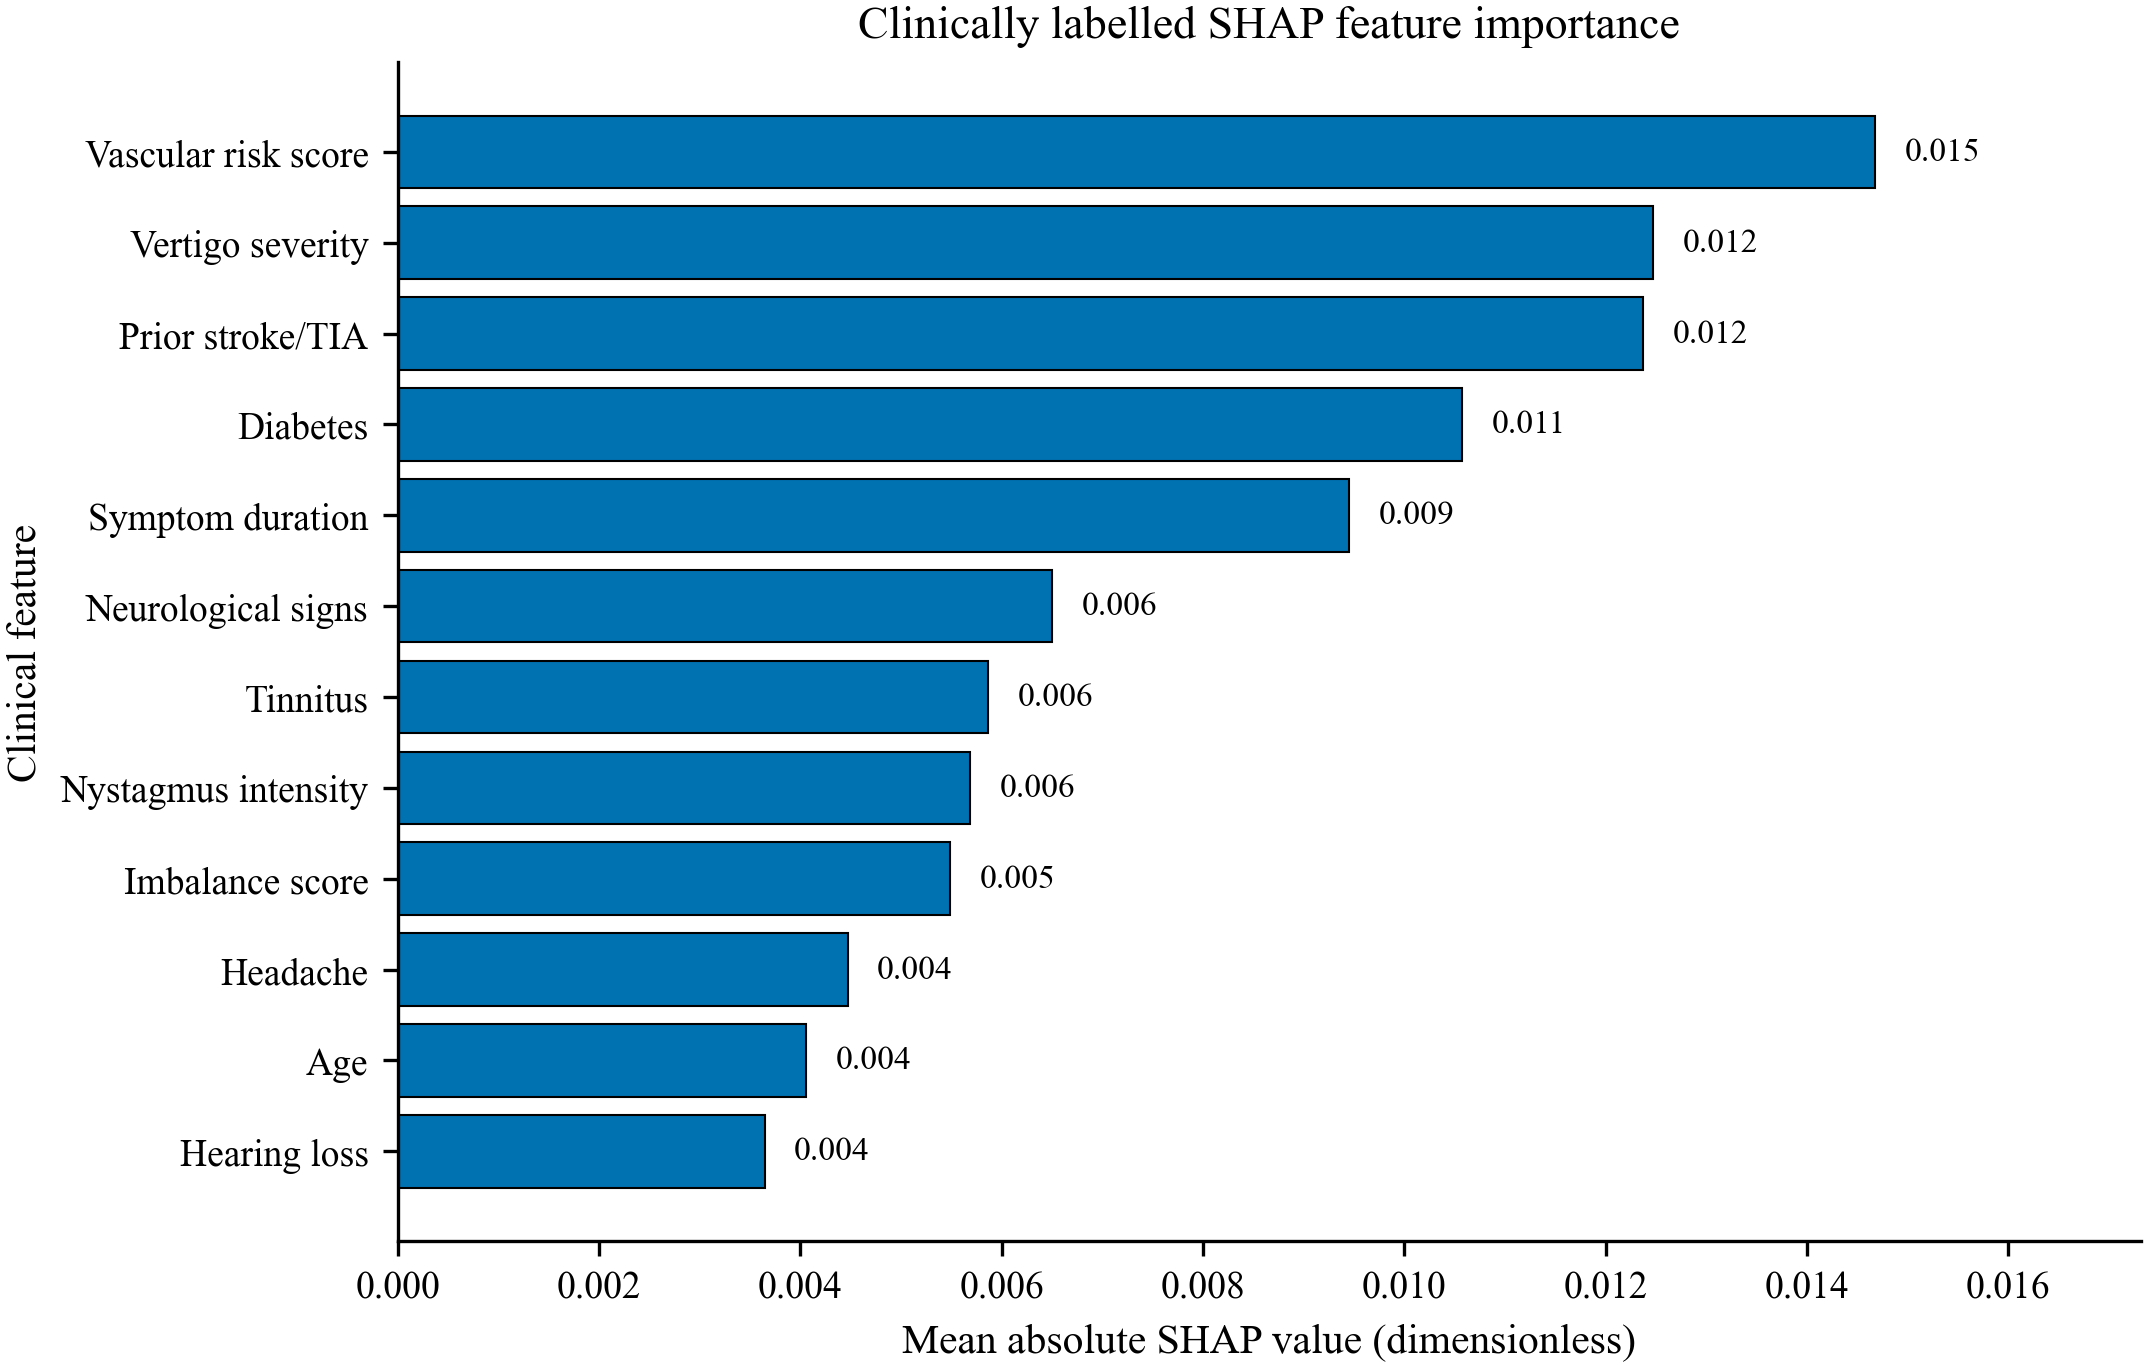
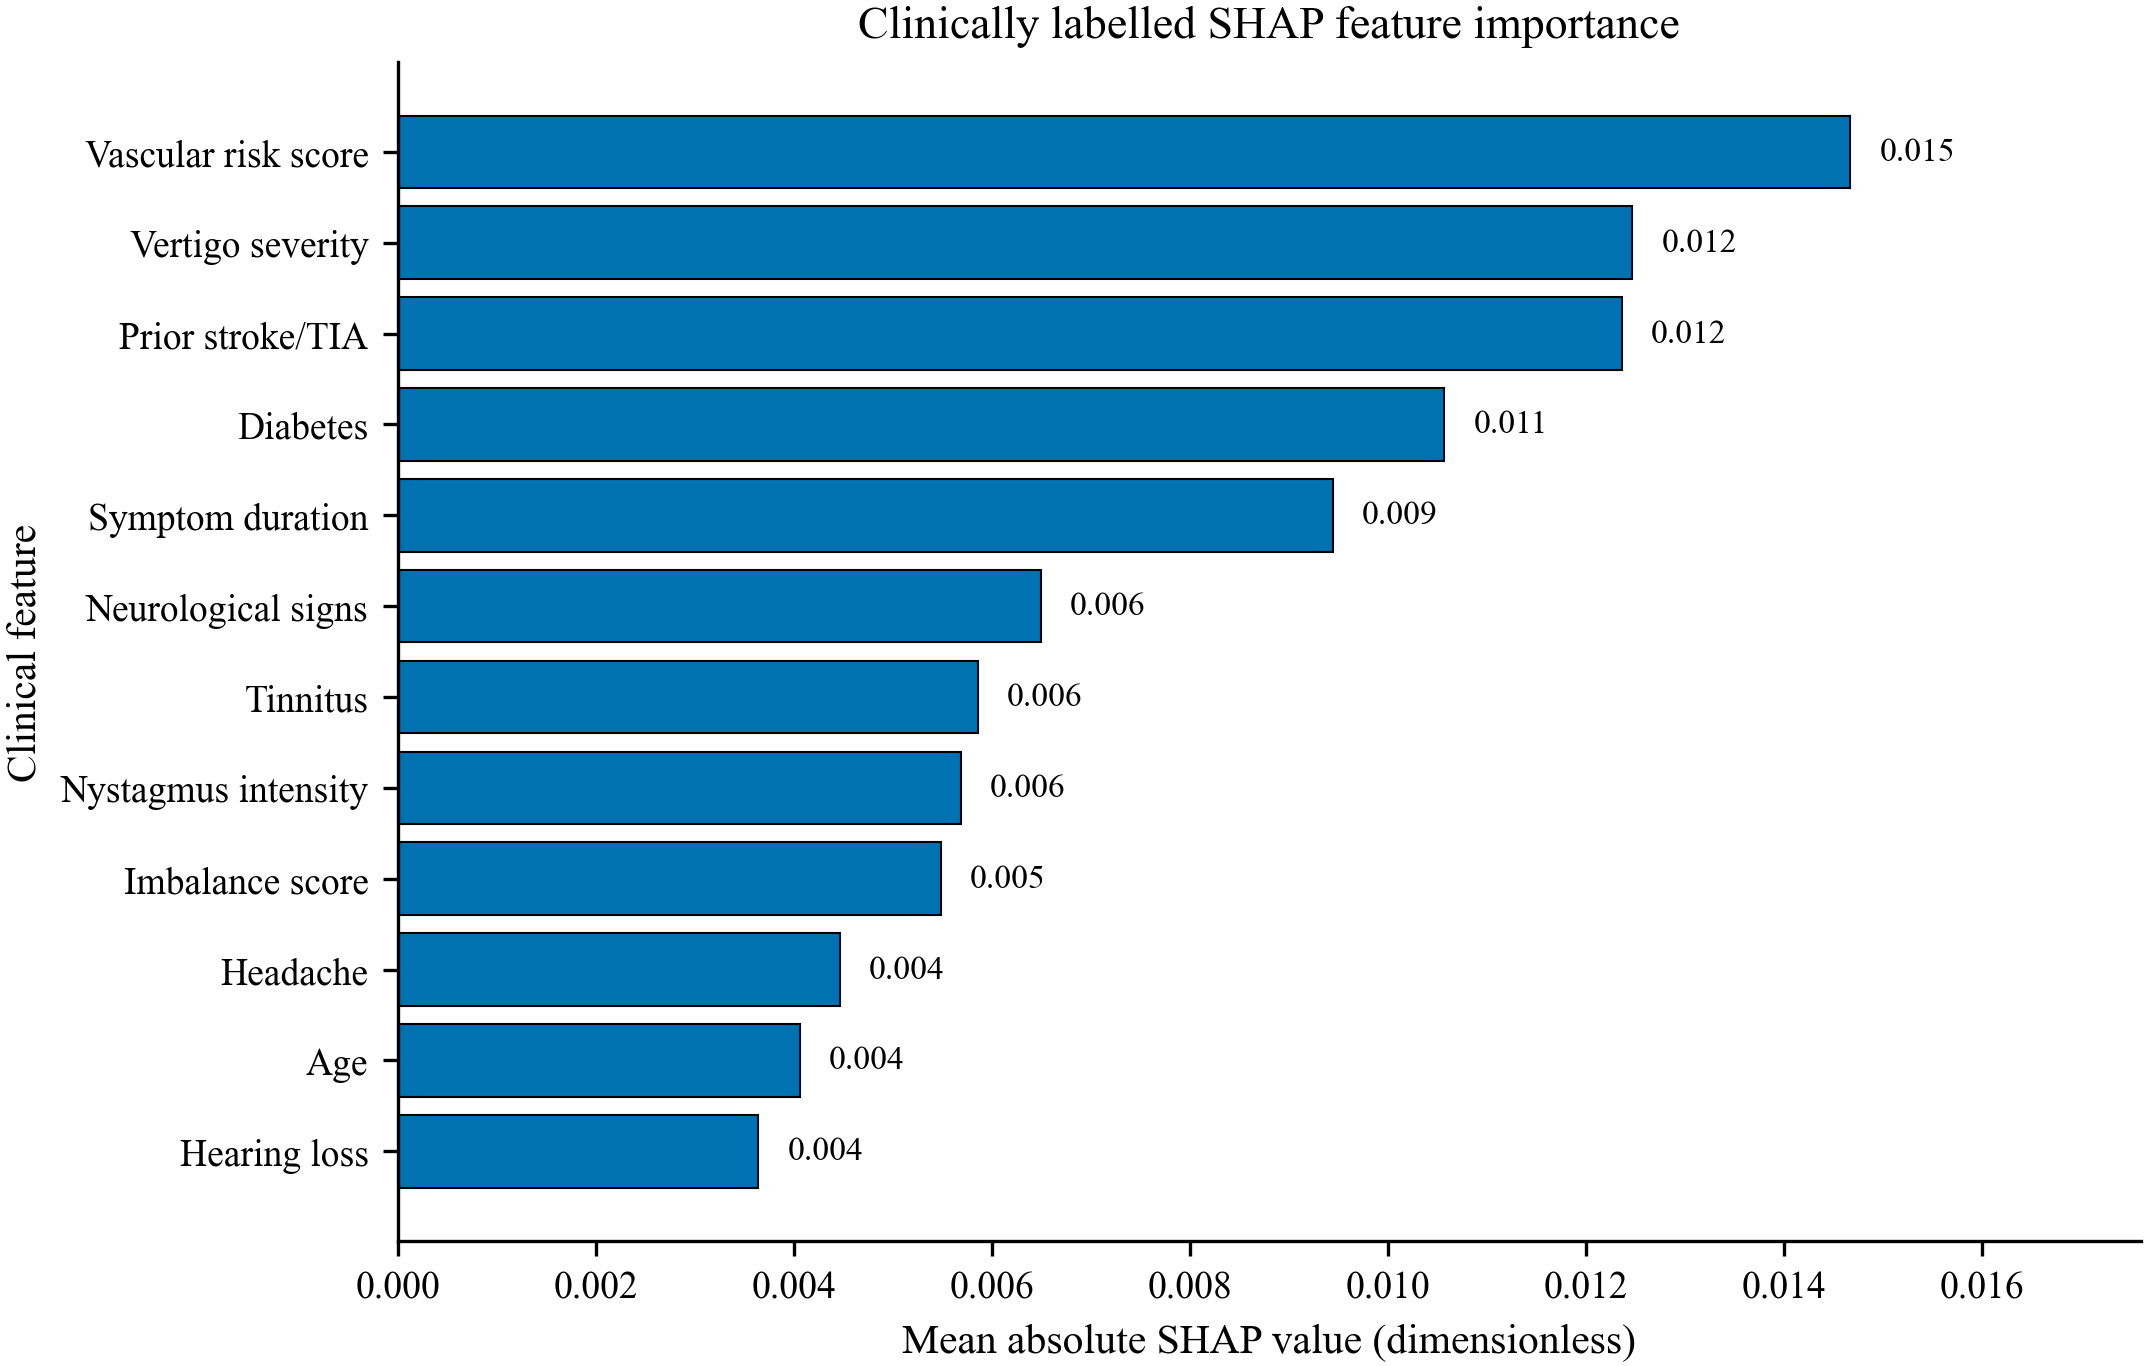
Consolidate shared visualization utility and upgrade charts to publication standard
- Vendor a single shared pubviz.py (palette, style, save, results IO, schematic
  primitives) byte-identical across repos; remove duplicated inline style blocks
- Replace weak chart types (radar, pie/donut, 3D-for-2D, dual-axis) with
  perceptually sound encodings (dot plots, small multiples, aligned panels)
- Add uncertainty (bootstrap / Wilson CIs) to effect and proportion estimates
- Add missing high-value figures (risk-coverage, calibration/reliability,
  decision-curve, behaviour-compliance) computed from results/ (seed 42)
- Annotate honest limitations on figures; regenerate all at 300 dpi (PDF + PNG)

diff --git a/scripts/generate_manuscript_figures.py b/scripts/generate_manuscript_figures.py
@@ -4,6 +4,14 @@ This script creates the small article-ready figure set used for top-tier
 readiness claims. It keeps broad demo outputs in ``outputs/`` and writes the
 curated, reproducible submission set to ``figures/manuscript/`` with a figure
 manifest.
+
+Visualization style and the save/load helpers are imported, byte-identical,
+from the vendored ``pubviz.py`` (mirrors _management/FIGURE_STYLE.md). Data is
+always loaded from ``outputs/`` / ``results/`` at run time -- never hardcoded.
+
+Encoding choices follow Cleveland--McGill: position/length on a common scale
+(dot/bar small multiples, horizontal bars) is preferred over angle (radar) or
+area (pie/donut), which are weak perceptual channels.
 """
 
 from __future__ import annotations
@@ -15,9 +23,9 @@ from datetime import datetime
 from pathlib import Path
 from typing import Any
 
-import matplotlib as mpl
 import matplotlib.pyplot as plt
-import numpy as np
+
+from pubviz import PALETTE, apply_pub_style, load_results, results_dir, save_fig  # noqa: F401
 
 
 ROOT = Path(__file__).resolve().parents[1]
@@ -25,12 +33,8 @@ DEFAULT_OUTPUT_DIR = ROOT / "figures" / "manuscript"
 DEFAULT_MANIFEST = ROOT / "FIGURE_MANIFEST.csv"
 DPI = 300
 
-# Canonical Top-Tier figure style (shared across all PhD repos).
-# Color-blind-safe (Okabe-Ito) palette — use in this order.
-PALETTE = ["#0072B2", "#D55E00", "#009E73", "#CC79A7", "#E69F00", "#56B4E9", "#000000"]
-
-# Semantic aliases drawn from the shared palette (no color-only encoding;
-# markers/linestyles carry the distinction where multiple series appear).
+# Semantic aliases drawn from the shared Okabe-Ito palette (no color-only
+# encoding; markers/hatches carry the distinction where multiple series appear).
 COLORS = {
     "blue": PALETTE[0],
     "orange": PALETTE[1],
@@ -39,45 +43,7 @@ COLORS = {
     "amber": PALETTE[4],
     "skyblue": PALETTE[5],
     "black": PALETTE[6],
-    # backward-compatible semantic names retained, remapped to Okabe-Ito
-    "safe": PALETTE[2],
-    "teal": PALETTE[5],
-    "gray": PALETTE[6],
 }
-
-
-def apply_pub_style() -> None:
-    """Apply the canonical publication style (see _management/FIGURE_STYLE.md)."""
-    mpl.rcParams.update(
-        {
-            "figure.dpi": 150,
-            "savefig.dpi": DPI,
-            "savefig.bbox": "tight",
-            "savefig.pad_inches": 0.02,
-            "font.family": "serif",
-            "font.serif": ["Times New Roman", "Times", "DejaVu Serif"],
-            "mathtext.fontset": "stix",
-            "font.size": 10,
-            "axes.titlesize": 11,
-            "axes.labelsize": 10,
-            "xtick.labelsize": 9,
-            "ytick.labelsize": 9,
-            "legend.fontsize": 9,
-            "axes.spines.top": False,
-            "axes.spines.right": False,
-            "axes.linewidth": 0.8,
-            "axes.grid": True,
-            "grid.alpha": 0.3,
-            "grid.linewidth": 0.6,
-            "lines.linewidth": 1.6,
-            "lines.markersize": 5,
-            "legend.frameon": False,
-            "figure.constrained_layout.use": True,
-            "axes.prop_cycle": mpl.cycler(color=PALETTE),
-            "pdf.fonttype": 42,
-            "ps.fonttype": 42,
-        }
-    )
 
 CLINICAL_FEATURE_LABELS = {
     "vascular_risk_score": "Vascular risk score",
@@ -104,12 +70,10 @@ def load_json(path: Path) -> dict[str, Any]:
 
 
 def save_figure(fig: plt.Figure, output_dir: Path, stem: str) -> tuple[Path, Path]:
-    png_path = output_dir / f"{stem}.png"
-    pdf_path = output_dir / f"{stem}.pdf"
-    fig.savefig(png_path, dpi=DPI, bbox_inches="tight")
-    fig.savefig(pdf_path, bbox_inches="tight")
+    """Write matched vector PDF + 300-dpi PNG via the canonical helper."""
+    save_fig(fig, stem, out_dir=str(output_dir))
     plt.close(fig)
-    return png_path, pdf_path
+    return output_dir / f"{stem}.png", output_dir / f"{stem}.pdf"
 
 
 def format_feature_name(feature: str) -> str:
@@ -131,8 +95,9 @@ def figure1_shap_importance(output_dir: Path) -> dict[str, str]:
     ax.set_title("Clinically labelled SHAP feature importance")
     ax.grid(axis="x")
     ax.grid(axis="y", visible=False)
-    ax.set_xlim(0, max(values) * 1.18)
+    ax.set_xlim(0, max(values) * 1.20)
 
+    # Value labels on every bar (position on a common scale + explicit number).
     for y_pos, value in enumerate(values):
         ax.text(value + max(values) * 0.02, y_pos, f"{value:.3f}", va="center", fontsize=8)
 
@@ -144,7 +109,12 @@ def figure1_shap_importance(output_dir: Path) -> dict[str, str]:
         "pdf": str(pdf_path.relative_to(ROOT)),
         "source_script": "scripts/generate_manuscript_figures.py",
         "source_data": str(report_path.relative_to(ROOT)),
-        "caption": "Clinically labelled SHAP feature-importance panel for SynDX dizziness-case modeling.",
+        "caption": (
+            "Clinically labelled SHAP feature-importance panel for SynDX "
+            "dizziness-case modeling; bars annotated with mean absolute SHAP "
+            "values. Per-sample SHAP arrays are not exported, so no bootstrap "
+            "confidence interval is shown (see human-review note)."
+        ),
         "article_section": "Explainability validation",
     }
 
@@ -177,7 +147,7 @@ def figure2_validation_metrics(output_dir: Path) -> dict[str, str]:
     for bar, hatch in zip(bars, hatches):
         bar.set_hatch(hatch)
     ax.set_ylim(0, 1.0)
-    ax.set_ylabel("Score (0–1, dimensionless)")
+    ax.set_ylabel("Score (0-1, dimensionless)")
     ax.set_xlabel("Validation metric")
     ax.set_title("Focused validation metrics")
     ax.grid(axis="y")
@@ -213,40 +183,47 @@ def figure2_validation_metrics(output_dir: Path) -> dict[str, str]:
 
 
 def figure3_counterfactual_quality(output_dir: Path) -> dict[str, str]:
+    """Counterfactual-quality profile as a dot/bar small-multiple panel.
+
+    Replaces the former radar/spider chart. Each of the four quality criteria is
+    a separate row plotted on a shared 0-1 position scale (Cleveland--McGill:
+    position on a common scale reads far more accurately than angle on a radar).
+    """
     metrics_path = ROOT / "outputs" / "validation_demo" / "counterfactual" / "validation_metrics.json"
     metrics = load_json(metrics_path)
 
-    labels = ["Sparsity", "Clinical\nplausibility", "Diversity", "Proximity\n(L2, inverted)"]
+    # Same normalizations as before, but rendered on a linear common scale.
     sparsity = 1.0 - min(metrics["sparsity"]["mean"] / 10.0, 1.0)
     plausibility = metrics["clinical_plausibility"]["mean"] / 5.0
     diversity = min(metrics["diversity"]["mean_pairwise_distance"] / 10.0, 1.0)
     proximity = 1.0 - min(metrics["proximity"]["mean_l2"] / 12.0, 1.0)
-    values = [sparsity, plausibility, diversity, proximity]
 
-    angles = np.linspace(0, 2 * np.pi, len(labels), endpoint=False).tolist()
-    values_closed = values + values[:1]
-    angles_closed = angles + angles[:1]
+    rows = [
+        ("Sparsity", sparsity),
+        ("Clinical plausibility", plausibility),
+        ("Diversity", diversity),
+        ("Proximity (L2, inverted)", proximity),
+    ]
+    labels = [r[0] for r in rows][::-1]
+    values = [r[1] for r in rows][::-1]
+    y_pos = list(range(len(labels)))
 
-    fig, ax = plt.subplots(
-        figsize=(5.4, 5.0), subplot_kw={"polar": True}, layout="constrained"
-    )
-    ax.plot(
-        angles_closed,
-        values_closed,
-        color=COLORS["blue"],
-        linewidth=1.8,
-        linestyle="-",
-        marker="o",
-        markersize=5,
-    )
-    ax.fill(angles_closed, values_closed, color=COLORS["blue"], alpha=0.18)
-    ax.set_xticks(angles)
-    ax.set_xticklabels(labels)
-    ax.set_ylim(0, 1)
-    ax.set_yticks([0.25, 0.5, 0.75, 1.0])
-    ax.set_yticklabels(["0.25", "0.50", "0.75", "1.00"], fontsize=8)
-    ax.grid(alpha=0.3, linewidth=0.6)
-    ax.set_title("Counterfactual quality profile (normalised 0–1)", pad=18)
+    fig, ax = plt.subplots(figsize=(7.0, 3.6))
+    # Thin reference bar + emphasised dot = Cleveland dot plot on a common scale.
+    ax.hlines(y=y_pos, xmin=0, xmax=values, color="#cfd6de", linewidth=2.4, zorder=1)
+    ax.scatter(values, y_pos, s=70, color=COLORS["blue"], edgecolor=COLORS["black"],
+               linewidth=0.6, zorder=3)
+    ax.set_yticks(y_pos)
+    ax.set_yticklabels(labels)
+    ax.set_xlim(0, 1.0)
+    ax.set_xticks([0.0, 0.25, 0.5, 0.75, 1.0])
+    ax.set_xlabel("Normalised quality score (0-1, higher is better)")
+    ax.set_title("Counterfactual quality profile")
+    ax.grid(axis="x")
+    ax.grid(axis="y", visible=False)
+
+    for yp, value in zip(y_pos, values):
+        ax.text(value + 0.02, yp, f"{value:.2f}", va="center", fontsize=9)
 
     png_path, pdf_path = save_figure(fig, output_dir, "fig3_counterfactual_quality_profile")
     return {
@@ -256,7 +233,11 @@ def figure3_counterfactual_quality(output_dir: Path) -> dict[str, str]:
         "pdf": str(pdf_path.relative_to(ROOT)),
         "source_script": "scripts/generate_manuscript_figures.py",
         "source_data": str(metrics_path.relative_to(ROOT)),
-        "caption": "Counterfactual quality profile summarizing sparsity, plausibility, diversity, and proximity.",
+        "caption": (
+            "Counterfactual quality profile (dot plot on a common 0-1 scale) "
+            "summarizing sparsity, clinical plausibility, diversity, and "
+            "proximity; replaces a radar chart for accurate magnitude reading."
+        ),
         "article_section": "Counterfactual validation",
     }
 

diff --git a/scripts/pubviz.py b/scripts/pubviz.py
@@ -1,0 +1,118 @@
+#!/usr/bin/env python3
+"""
+pubviz.py -- canonical Top-Tier visualization utilities shared, byte-identical,
+by every figure script across the ChatchaiTritham PhD reproducibility repos.
+
+Mirrors _management/FIGURE_STYLE.md. One look across all papers:
+  * Okabe-Ito colour-blind-safe palette (consistent series order)
+  * Times serif fonts, STIX math; spines off; light grid; constrained layout
+  * 300 dpi PNG + vector PDF, tight bbox
+  * helpers: results_dir / load_results / require_results / save_fig
+  * schematic primitives: add_box / arrow
+
+Location-independent: it finds results/ by walking up from the current working
+directory (scripts are run from the repo root). Vendor this file UNCHANGED into
+each repo; an identity gate asserts every copy matches this source.
+
+Data must always be loaded from results/ at run time -- never hardcode numbers.
+"""
+from __future__ import annotations
+
+import json
+from pathlib import Path
+
+import matplotlib as mpl
+import matplotlib.pyplot as plt
+from matplotlib.patches import FancyArrowPatch, FancyBboxPatch
+
+# Color-blind-safe (Okabe-Ito) -- use in this order.
+PALETTE = ["#0072B2", "#D55E00", "#009E73", "#CC79A7",
+           "#E69F00", "#56B4E9", "#000000"]
+
+# Semantic aliases drawn from the same palette (keeps DAGs/bars/schematics consistent).
+C_TREATMENT = PALETTE[0]   # blue
+C_OUTCOME = PALETTE[1]     # vermillion
+C_CONFOUNDER = PALETTE[4]  # orange
+C_MEDIATOR = PALETTE[2]    # bluish green
+C_NEUTRAL = "#555555"      # grey -- naive / reference / baseline
+
+
+def apply_pub_style():
+    """Apply the canonical publication rcParams (idempotent)."""
+    mpl.rcParams.update({
+        "figure.dpi": 150, "savefig.dpi": 300, "savefig.bbox": "tight",
+        "savefig.pad_inches": 0.02,
+        "font.family": "serif",
+        "font.serif": ["Times New Roman", "Times", "DejaVu Serif"],
+        "mathtext.fontset": "stix", "pdf.fonttype": 42, "ps.fonttype": 42,
+        "font.size": 10, "axes.titlesize": 11, "axes.labelsize": 10,
+        "xtick.labelsize": 9, "ytick.labelsize": 9, "legend.fontsize": 9,
+        "axes.spines.top": False, "axes.spines.right": False,
+        "axes.linewidth": 0.8, "axes.grid": True, "axes.axisbelow": True,
+        "grid.alpha": 0.3, "grid.linewidth": 0.6,
+        "lines.linewidth": 1.6, "lines.markersize": 5,
+        "legend.frameon": False, "figure.constrained_layout.use": True,
+        "axes.prop_cycle": mpl.cycler(color=PALETTE),
+    })
+
+
+def repo_root(start: Path | None = None) -> Path:
+    """Nearest ancestor containing results/ or .git (falls back to cwd)."""
+    here = Path(start or Path.cwd()).resolve()
+    for d in (here, *here.parents):
+        if (d / "results").is_dir() or (d / ".git").exists():
+            return d
+    return Path.cwd().resolve()
+
+
+def results_dir(start: Path | None = None) -> Path:
+    return repo_root(start) / "results"
+
+
+def load_results(name: str, start: Path | None = None):
+    """Load a results/ artifact by file name. .json -> obj; .csv -> list[dict]."""
+    p = results_dir(start) / name
+    if not p.exists():
+        raise FileNotFoundError(
+            f"missing results/{name} -- run the repo's run_all.py/run_eval.py "
+            f"(seed 42) to regenerate results/ before plotting.")
+    if p.suffix == ".json":
+        return json.loads(p.read_text(encoding="utf-8"))
+    import csv
+    with p.open(encoding="utf-8", newline="") as fh:
+        return list(csv.DictReader(fh))
+
+
+def require_results(*names: str, start: Path | None = None) -> None:
+    """Fail early with a clear hint if any results/ artifact is absent."""
+    missing = [n for n in names if not (results_dir(start) / n).exists()]
+    if missing:
+        raise FileNotFoundError(
+            "missing results artifacts: " + ", ".join(missing) +
+            " -- run the repo's reproduction script (seed 42) first.")
+
+
+def save_fig(fig, basename: str, out_dir="figures"):
+    """Save matched vector .pdf + 300-dpi .png (tight bbox, white bg)."""
+    out = Path(out_dir)
+    out.mkdir(parents=True, exist_ok=True)
+    for ext in ("pdf", "png"):
+        fig.savefig(out / f"{basename}.{ext}", bbox_inches="tight", facecolor="white")
+    print(f"saved: {basename}.pdf / .png  ->  {out}")
+
+
+def add_box(ax, xy, width, height, label, facecolor="#eef2f7",
+            edgecolor=PALETTE[0], textcolor="#1a1a1a", size=9):
+    """Rounded schematic box with centred label (for architecture diagrams)."""
+    box = FancyBboxPatch(xy, width, height, boxstyle="round,pad=0.012,rounding_size=0.02",
+                         linewidth=1.1, edgecolor=edgecolor, facecolor=facecolor, zorder=2)
+    ax.add_patch(box)
+    ax.text(xy[0] + width / 2, xy[1] + height / 2, label, ha="center", va="center",
+            fontsize=size, color=textcolor, zorder=3)
+    return box
+
+
+def arrow(ax, start, end, color="#555555", lw=1.35):
+    """Schematic arrow that shrinks off the box edges (no head-in-text overlap)."""
+    ax.add_patch(FancyArrowPatch(start, end, arrowstyle="-|>", mutation_scale=12,
+                                 lw=lw, color=color, shrinkA=4, shrinkB=4, zorder=1))